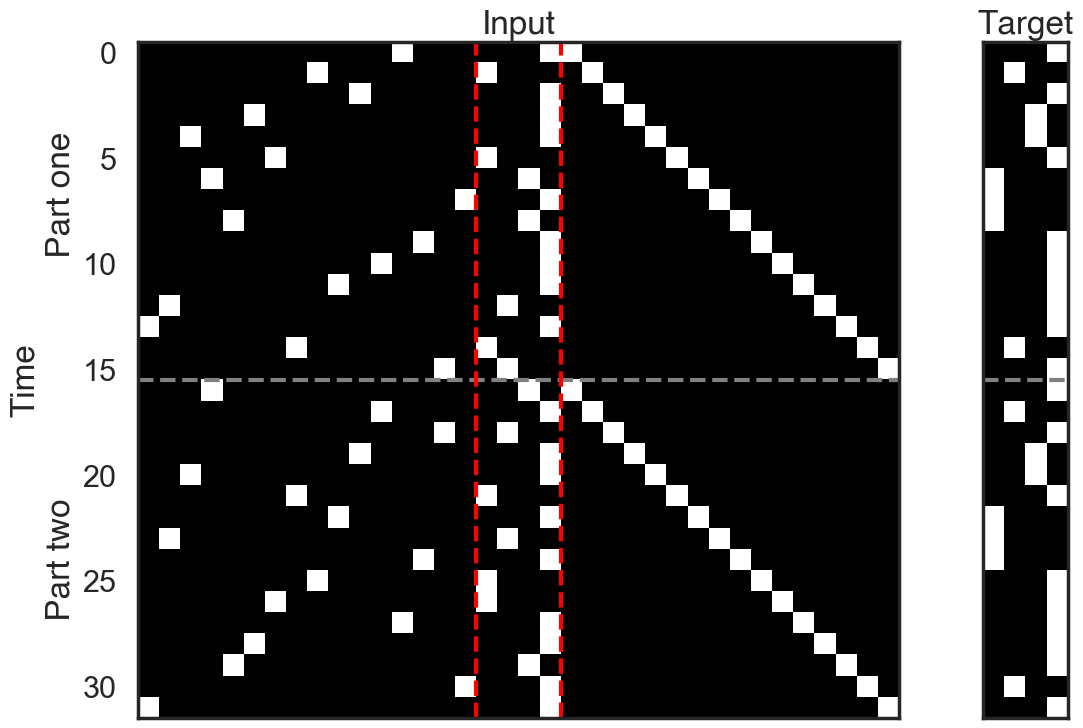
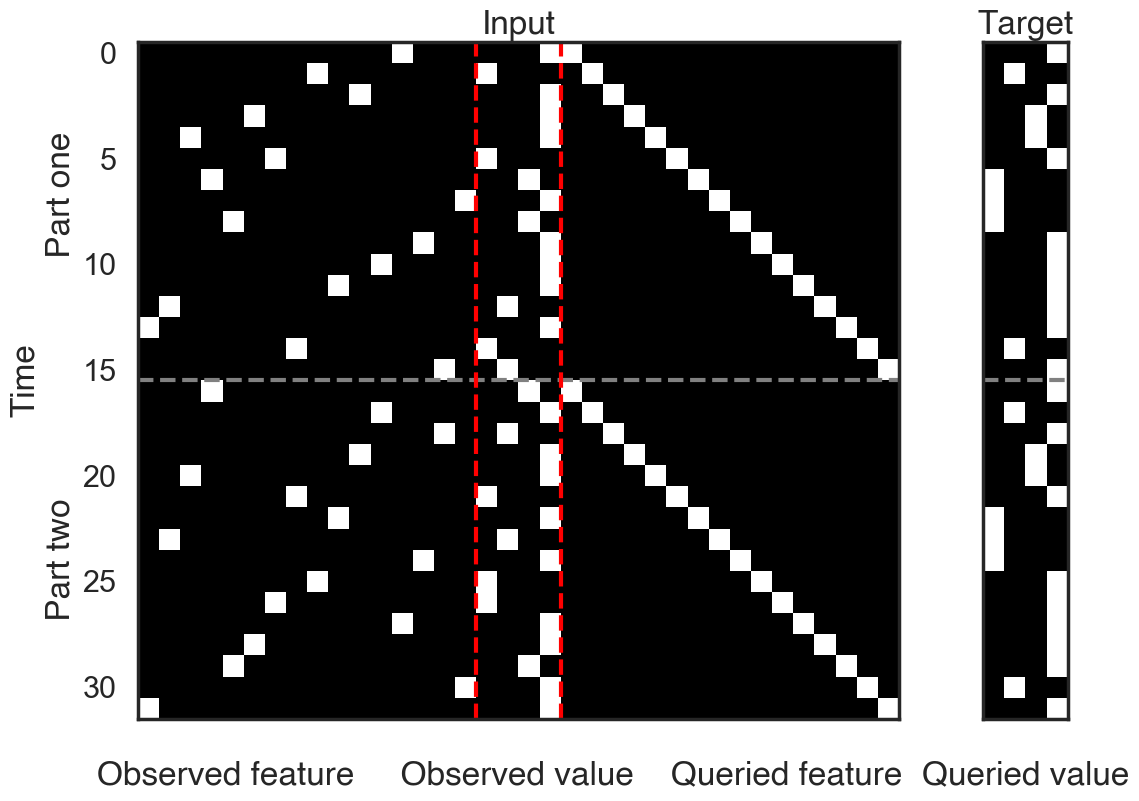
minor update

diff --git a/src/examples/stimuli-representation.py b/src/examples/stimuli-representation.py
@@ -5,35 +5,31 @@ from task import SequenceLearning
 sns.set(style='white', palette='colorblind', context='poster')
 np.random.seed(0)
 
-
 '''how to use'''
 # init
 n_param, n_branch = 16, 4
 pad_len = 0
 n_parts = 2
-n_samples = 5
+n_samples = 256
 p_rm_ob_enc = 0
 p_rm_ob_rcl = 0
 n_rm_fixed = False
-key_rep_type = 'time'
 task = SequenceLearning(
     n_param, n_branch, pad_len=pad_len,
     p_rm_ob_enc=p_rm_ob_enc,
     p_rm_ob_rcl=p_rm_ob_rcl,
     n_rm_fixed=n_rm_fixed,
-    key_rep_type=key_rep_type
 )
 # take sample
 X, Y = task.sample(n_samples, to_torch=False)
 print(f'X shape = {np.shape(X)}, n_example x time x x-dim')
 print(f'Y shape = {np.shape(Y)},  n_example x time x y-dim')
 
+'''visualize the sample'''
 # pick a sample
 i = 0
 x, y = X[i], Y[i]
 
-
-'''visualize the sample'''
 cmap = 'bone'
 f, axes = plt.subplots(
     1, 2, figsize=(12, 10), sharey=True,
@@ -44,9 +40,9 @@ axes[1].imshow(y, cmap=cmap)
 
 axes[0].set_title('Input', fontname='Helvetica')
 axes[1].set_title('Target', fontname='Helvetica')
-# axes[0].set_xlabel(
-#     '\nObserved feature     Observed value    Queried feature    ', fontname='Helvetica')
-# axes[1].set_xlabel('\nQueried value', fontname='Helvetica')
+axes[0].set_xlabel(
+    '\nObserved feature     Observed value    Queried feature    ', fontname='Helvetica')
+axes[1].set_xlabel('\nQueried value', fontname='Helvetica')
 axes[0].set_ylabel('Time\n Part two ' + ' ' * 24 +
                    ' Part one', fontname='Helvetica')
 # ax.xticks([])
